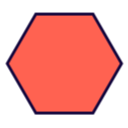
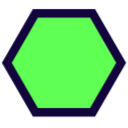
Adding buildings to screen.

diff --git a/line-em-up/models/screen_map.rb b/line-em-up/models/screen_map.rb
@@ -22,10 +22,11 @@ class ScreenMap < ScreenFixedObject
 
     @height_scale_with_icon_image_scaler = @height_scale / self.class::ICON_IMAGE_SCALER
 
-    @player_image = Gosu::Image.new("#{MEDIA_DIRECTORY}/minimap_player.png")
+    @player_image = Player.get_minimap_image
     @player_image_width  = @player_image.width  * @height_scale_with_icon_image_scaler
     @player_image_height = @player_image.height * @height_scale_with_icon_image_scaler
-
+    @player_image_width_half  = @player_image_width / 2.0
+    @player_image_height_half = @player_image_height / 2.0
 
 
     @x_increment = @image_width  / (@map_tile_width.to_f)
@@ -55,6 +56,8 @@ class ScreenMap < ScreenFixedObject
     @player_x = nil
     @player_y = nil
 
+    @icons = []
+
     # @mini_map_image = init_map(background_map_data)
     # puts "MINIMAP LENGTH: #{@mini_map.count}"
   end
@@ -63,15 +66,53 @@ class ScreenMap < ScreenFixedObject
     @image.draw(@x - @image_width, @y, ZOrder::MiniMap, @height_scale_with_image_scaler, @height_scale_with_image_scaler, @color)
     if @player_tile_x && @player_tile_y
       # MiniMapIcon
-      @player_image.draw(@player_x, @player_y, ZOrder::MiniMapIcon, @height_scale_with_icon_image_scaler, @height_scale_with_icon_image_scaler, @color)
+      @player_image.draw(@player_x, @player_y, ZOrder::PlayerMiniMapIcon, @height_scale_with_icon_image_scaler, @height_scale_with_icon_image_scaler, @color)
+    end
+    @icons.each do |icon|
+      icon[:image].draw(icon[:x], icon[:y], ZOrder::MiniMapIcon, @height_scale_with_icon_image_scaler, @height_scale_with_icon_image_scaler, @color)
     end
   end
 
-  def update player_tile_x, player_tile_y
-    @player_tile_x = player_tile_x
-    @player_tile_y = player_tile_y
-    @player_x = @x - @x_increment * player_tile_x - (@player_image_width / 2.0)
-    @player_y = @y + @y_increment * player_tile_y - (@player_image_height / 2.0)
+  def update player_tile_x, player_tile_y, buildings#, ships
+    Thread.new do
+      @player_tile_x = player_tile_x
+      @player_tile_y = player_tile_y
+      # puts "PLAYER IMAGE MINI: #{@player_image_width} - #{@player_image_height}"
+      @player_x = convert_tile_x_to_screen_x(player_tile_x, @player_image_width_half)
+      @player_y = convert_tile_y_to_screen_y(player_tile_y, @player_image_height_half)
+
+      icons = []
+
+      buildings.each do |b|
+        image = b.minimap_image
+        if image
+          # b.current_map_pixel_x
+          # b.current_map_pixel_y
+          icons << {
+            image: image,
+            x: convert_tile_x_to_screen_x(b.current_map_tile_x, b.mini_map_image_width_half),
+            y: convert_tile_y_to_screen_y(b.current_map_tile_y, b.mini_map_image_height_half)
+          }
+          # puts "ICONS HERE:"
+          # puts "Tile #{b.current_map_tile_x} - #{b.current_map_tile_y}"
+          # puts "X: #{convert_tile_x_to_screen_x(b.current_map_tile_x, b.mini_map_image_width_half)} Y: #{convert_tile_y_to_screen_y(b.current_map_tile_y, b.mini_map_image_height_half)}"
+          # puts "IMAGE H AND W: #{b.mini_map_image_width_half}  -  #{b.mini_map_image_height_half}"
+        end
+      end
+
+      @icons = icons
+      Thread.exit
+    end
+
+  end
+
+  def convert_tile_x_to_screen_x object_tile_x, image_width_half
+      # attr_reader :mini_map_image_width_half, :mini_map_image_height_half
+    return @x - (@x_increment * object_tile_x) - image_width_half
+  end
+
+  def convert_tile_y_to_screen_y object_tile_y, image_height_half
+    return @y + (@y_increment * object_tile_y) - image_height_half
   end
 
 

diff --git a/line-em-up/models/general_object.rb b/line-em-up/models/general_object.rb
@@ -12,7 +12,8 @@ class GeneralObject
   attr_reader :current_map_pixel_x, :current_map_pixel_y
   attr_reader :current_map_tile_x,  :current_map_tile_y
   attr_reader :x_offset, :y_offset
-  attr_reader :image
+  attr_reader :image, :minimap_image
+  attr_reader :mini_map_image_width_half, :mini_map_image_height_half
   attr_reader :height_scale_with_image_scaler
 
   # attr_accessor :x_offset_base, :y_offset_base
@@ -156,7 +157,19 @@ class GeneralObject
 
     @owner = nil
     @invulnerable = false
+
+    @minimap_image = get_minimap_image
+    if @minimap_image
+      @mini_map_image_width  = @image_width  / ScreenMap::ICON_IMAGE_SCALER
+      @mini_map_image_height = @image_height / ScreenMap::ICON_IMAGE_SCALER
+      @mini_map_image_width_half  = @mini_map_image_width  / 2.0
+      @mini_map_image_height_half = @mini_map_image_height / 2.0
+    end
   end   
+
+  def get_minimap_image
+   nil #Gosu::Image.new("#{MEDIA_DIRECTORY}/minimap_building.png") 
+  end
 
   def is_point_inside_polygon point, points
     is_inside = true

diff --git a/line-em-up/lib/z_order.rb b/line-em-up/lib/z_order.rb
@@ -4,7 +4,7 @@ module ZOrder
   # I don't understand this
   # The more right, the more on top you are.
   # Left should be under everything
-  Background, Building, LaserParticle, BigExplosions, Pickups, AIShip, AIHardpointBase, AIHardpoint, AIProjectile, Player, HardpointBase, Hardpoint, PlayerProjectile, MenuBackground, HardPointClickableLocation, Launcher, SmallExplosions, MiniMap, MiniMapIcon, UI, CurserUIBuffer, Cursor = *0..50
+  Background, Building, LaserParticle, BigExplosions, Pickups, AIShip, AIHardpointBase, AIHardpoint, AIProjectile, Player, HardpointBase, Hardpoint, PlayerProjectile, MenuBackground, HardPointClickableLocation, Launcher, SmallExplosions, MiniMap, MiniMapIcon, PlayerMiniMapIcon, UI, CurserUIBuffer, Cursor = *0..50
 end
 
 # [2] pry(main)> ZOrder::Ship

diff --git a/line-em-up/game_window.rb b/line-em-up/game_window.rb
@@ -541,7 +541,7 @@ class GameWindow < Gosu::Window
   def update
     @quest_data, @ships, @buildings, @messages, @effects = QuestInterface.update_quests(@config_path, @quest_data, @gl_background.map_name, @ships, @buildings, @player, @messages, @effects, self)
     
-    @mini_map.update(@player.current_map_tile_x, @player.current_map_tile_y)
+    @mini_map.update(@player.current_map_tile_x, @player.current_map_tile_y, @buildings)
 
     @add_projectiles.reject! do |projectile|
       @projectiles[projectile.id] = projectile

diff --git a/line-em-up/models/building.rb b/line-em-up/models/building.rb
@@ -31,7 +31,17 @@ class Building < BackgroundFixedObject
     @image = self.class.get_image
     @info = @image.gl_tex_info
     @interactible = false
+
   end
+
+  def self.get_minimap_image
+    Gosu::Image.new("#{MEDIA_DIRECTORY}/minimap_building.png") 
+  end
+
+  def get_minimap_image
+    return self.class.get_minimap_image
+  end
+
 
   # def drops
   #   # rand_num = rand(10)

diff --git a/line-em-up/models/player.rb b/line-em-up/models/player.rb
@@ -132,6 +132,16 @@ class Player < ScreenFixedObject
     # puts "PLAYER @image_radius: #{@image_radius}"
   end
 
+
+  def self.get_minimap_image
+    Gosu::Image.new("#{MEDIA_DIRECTORY}/minimap_player.png")
+  end
+
+  def get_minimap_image
+    return self.class.get_minimap_image
+  end
+
+
   def enable_boost
     @boost_active = true
   end

diff --git a/line-em-up/models/offensive_store.rb b/line-em-up/models/offensive_store.rb
@@ -39,6 +39,14 @@ class OffensiveStore < Building
     @interactible = true
   end
 
+  def self.get_minimap_image
+    Gosu::Image.new("#{MEDIA_DIRECTORY}/minimap_offensive_store.png") 
+  end
+
+  def get_minimap_image
+    return self.class.get_minimap_image
+  end
+
   def set_drops drops
     @drops = drops
   end
